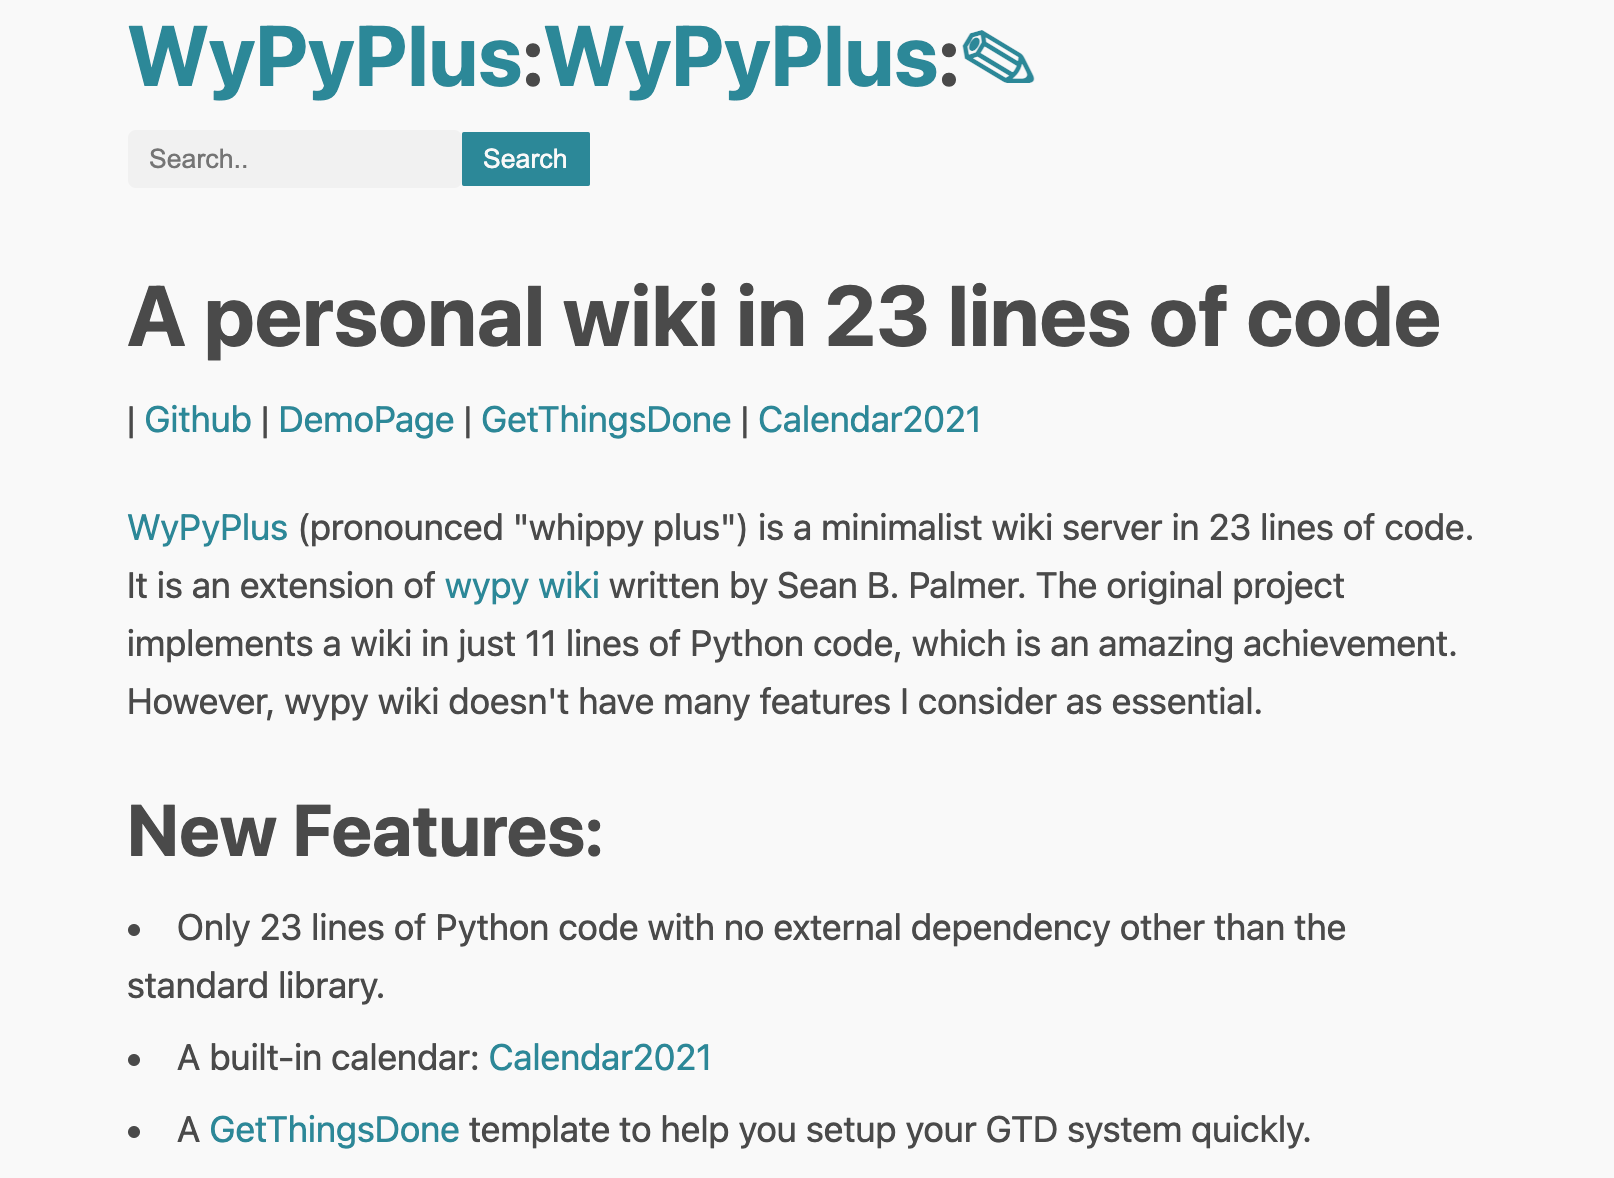
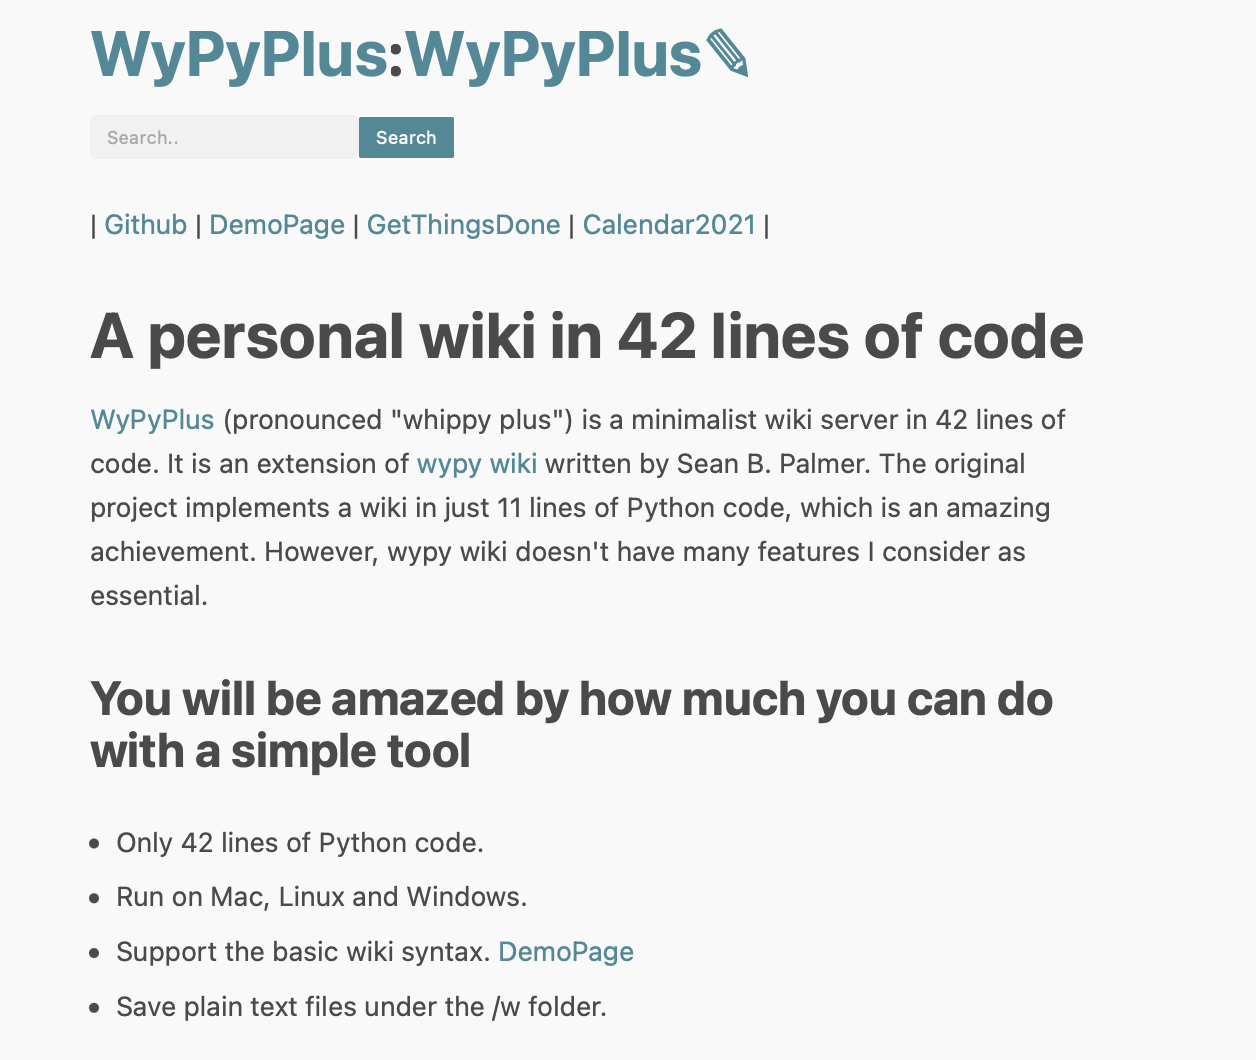
update screenshot

diff --git a/index.html b/index.html
@@ -1,0 +1,2 @@
+<meta http-equiv="Refresh" content="0; url='cgi-bin/wypyplus.py'" />
+

diff --git a/cgi-bin/wypyplus.py b/cgi-bin/wypyplus.py
@@ -1,23 +1,42 @@
 #!/usr/bin/env python2
 # -*- coding: utf-8 -*-
-name='WyPyPlus';edit='✎';pre='(?:^|\n)```((?:.|\n)+?)\n```';pre_h='<pre><code>((?:.|\n)+?)</code></pre>';link='\[([^]]*)]\(\s*((?:http[s]?://)?[^)]+)\s*\)';t='</textarea>'
-hs=lambda m:hex(hash(m.group(1)))[-5:];hl=lambda m,n:'<h%d>%s</h%d>'%(n,m.group(1),n);hl1=lambda m:hl(m, 1);hl2=lambda m:hl(m, 2);hl3=lambda m:hl(m,3) 
-import sys,re,os,cgi;from datetime import timedelta as td,datetime as dt;q,x,h,w=cgi.escape,os.path.exists,'<a href=','wypyplus.py?p='
+import sys,re,os,cgi;from datetime import timedelta as td,datetime as dt;
+home='WyPyPlus';edit='✎';t='</textarea>'
+pre='(?:^|\n)```((?:.|\n)+?)\n```';pre_h='<pre><code>((?:.|\n)+?)</code></pre>'
+remove_leading_space=lambda m:'<pre><code>'+'\n'.join([l[1:] for l in m.group(1).splitlines()])+'</code></pre>'
+insert_leading_space=lambda m: '\n```'+'\n '.join(m.group(1).splitlines())+ '\n```'
+link='\[([^]]*)]\(\s*((?:http[s]?://)?[^)]+)\s*\)';yt="https://www.youtube.com/watch?v="
+hs=lambda m:hex(hash(m.group(1)))[-5:]
+hl=lambda m,n:'<h%d>%s</h%d>'%(n,m.group(1),n);hl1=lambda m:hl(m, 1);hl2=lambda m:hl(m, 2);hl3=lambda m:hl(m,3)
+q,x,h,w=cgi.escape,os.path.exists,'<a href=','wypyplus.py?p='
 load=lambda n:(x('w/'+n) and open('w/'+n).read()) or '';load_tpl=lambda n: load(n) or load('Tpl'+n[:3]) or '';load_g=lambda:load('GlobalMenu')
-f,i=cgi.FormContent(),'put type';y=f.get('p',[''])[0];y=dt.now().strftime("%b%d") if y=='Today' else (name,y)[y.isalnum()]
+f,i=cgi.FormContent(),'put type';y=f.get('p',[''])[0];y=dt.now().strftime("%b%d") if y=='Today' else (home,y)[y.isalnum()]
 se='<form><input type="text"placeholder="Search.. "name="p"><input type="hidden" name="q" value="f"><button type="submit">Search</button></form>'
-fs,do,main=lambda s:re.sub(pre_h,lambda m:'<pre><code>'+'\n'.join([l[1:] for l in m.group(1).splitlines()])+'</code></pre>',reduce(lambda s,r:re.sub('(?m)'+r[0],r[1],s),
-(('\r',''),('^@INCLUDE=(\w+)$',lambda m: x('w/'+m.group(1)) and open('w/'+m.group(1)).read() or ''),('(^|[^=/\-_A-Za-z0-9?])([A-Z][a-z]+([A-Z0-9][a-z0-9]*){1,})',
-lambda m:(m.group(1)+'%s%s')%((m.group(2),h+w+m.group(2)+'&amp;q=e>?</a>' if edit else ''),('',h+w+m.group(2)+'>%s</a>'%m.group(2)))[x('w/'+m.group(2))]),
-('^\{\{$','\n<ul>'),('^\*(.*)$','<li>\g<1></li>'),('^}}$','</ul>'),('^---$','<hr>'),(pre,'<pre><code>\g<1></code></pre>'),('^# (.*)$',hl1),
-('^## (.*)$', hl2),('^### (.*)$',hl3),('\*\*(.*)\*\*','<b>\g<1></b>'),('\!'+link,'<img src="\g<2>" alt="\g<1>">'),('(^|[^!])'+link,"\g<1>"+h+'"\g<3>">\g<2></a>'),
-('(^|[^"])(http[s]?:[^<>"\s]+)',"\g<1>"+h+'"\g<2>">\g<2></a>'),('\n\n','\n<p>')),q(s)),0,re.MULTILINE),\
-lambda m,n:{'get':'<h1>%s%s%s>%s</a>:%s%s%s&amp;q=f>%s</a>%s%s%s&amp;q=e>%s</a></h1>%s<p>%s'%(h,w,name,name,h,w,n,n,h,w,n,edit,se if edit else '',
-fs(load_g()+re.sub(pre, lambda m: '\n```'+'\n '.join(m.group(1).splitlines())+ '\n```', load_tpl(n))) or n),\
-'edit':'<form name="e" action=%s%s method=POST><h1>%s <in%s=hidden name=p value=%s></h1>Opened at: %s AutoSave at: %s<textarea name=t id=ta rows=24>%s%s<in%s=submit>'\
-%(w,n,fs(n),i,n,dt.now().strftime("%m/%d/%Y %H:%M"),(dt.now()+td(minutes=30)).strftime("%H:%M"),q(load_tpl(n)),t,i),\
-'find':('<h1>Links: %s</h1>'%fs(n))+fs('{{\n* %s\n}}'%'\n* '.join(sorted([d for d in os.listdir('w/') if n == "All" or load(d).count(n) or n in d])))
-}.get(m),lambda f=f:`(os.getenv("REQUEST_METHOD")!="POST") or not edit or ('t' in f or (os.remove('w/'+y) and False))\
-and open('w/'+y,'w').write(f['t'][0])`+`sys.stdout.write("Content-type: text/html; charset=utf-8\r\n\r\n"\
-'<head><meta content="width=device-width, initial-scale=1" name="viewport"><link rel="stylesheet" href="../sakura.css">\
-</head><title>%s</title>'%y+do(({'e':'edit','f':'find'} if edit else {'f':'find'}).get(f.get('q',[None])[0],'get'),y))`;(__name__=="__main__") and main()
+fs=lambda s:re.sub(pre_h,remove_leading_space,reduce(lambda s,r:re.sub('(?m)'+r[0],r[1],s),(('\r',''),
+('^@INCLUDE=(\w+)$',lambda m: x('w/'+m.group(1)) and open('w/'+m.group(1)).read() or ''),
+('(^|[^=/\-_A-Za-z0-9?])([A-Z][a-z]+([A-Z0-9][a-z0-9]*){1,})',
+ lambda m:(m.group(1)+'%s%s')%((m.group(2),h+w+m.group(2)+'&amp;q=e>?</a>' if edit else ''),('',h+w+m.group(2)+'>%s</a>'%m.group(2)))[x('w/'+m.group(2))]),
+('^\{\{$','\n<ul>'),('^\*(.*)$','<li>\g<1></li>'),('^}}$','</ul>'),('^---$','<hr>'),
+(pre,'<pre><code>\g<1></code></pre>'),
+('^# (.*)$',hl1),('^## (.*)$', hl2),('^### (.*)$',hl3),('\*\*(.*)\*\*','<b>\g<1></b>'),
+('\!'+link,'<img src="\g<2>" alt="\g<1>">'),('(^|[^!])'+link,"\g<1>"+h+'"\g<3>">\g<2></a>'),
+('(^|[^"])(http[s]?:[^<>"\s]+)',
+ lambda m: ('<iframe width="560" height="315" src="https://www.youtube.com/embed/%s" \
+frameborder="0" allow="accelerometer; autoplay; clipboard-write; encrypted-media;\
+ gyroscope; picture-in-picture" allowfullscreen></iframe>' % m.group(2)[len(yt):]) if m.group(2).startswith(yt)
+ else (m.group(1)+h+m.group(2)+">"+m.group(2)+"</a>")),
+('\n\n','\n<p>')),q(s)),0,re.MULTILINE)
+do=lambda m,n:{
+    'get':'<h1>%s%s%s>%s</a>:%s%s%s&amp;q=f>%s</a>%s%s%s&amp;q=e>%s</a></h1>%s<p>%s'%(
+        h,w,home,home,h,w,n,n,h,w,n,edit,se if edit else '',
+        fs(load_g()+re.sub(pre, insert_leading_space, load_tpl(n))) or n),
+    'edit':'<form name="e" action=%s%s method=POST><h1>%s <in%s=hidden name=p value=%s></h1>Opened at: %s AutoSave at: %s<textarea name=t id=ta rows=24>%s%s<in%s=submit>'%(
+        w,n,fs(n),i,n, dt.now().strftime("%m/%d/%Y %H:%M"), (dt.now()+td(minutes=30)).strftime("%H:%M"), q(load_tpl(n)),t,i),
+    'find':('<h1>Links: %s</h1>'%fs(n))+fs('{{\n* %s\n}}'%'\n* '.join(
+        sorted([d for d in os.listdir('w/') if n == "All" or load(d).count(n) or n in d])))
+}.get(m)
+main=lambda f=f:`(os.getenv("REQUEST_METHOD")!="POST") or not edit or ('t' in f or (os.remove('w/'+y) and False))\
+    and open('w/'+y,'w').write(f['t'][0])`+`sys.stdout.write("Content-type: text/html; charset=utf-8\r\n\r\n"\
+        '<head><meta content="width=device-width, initial-scale=1" name="viewport"><link rel="stylesheet" href="../sakura.css">\
+        </head><title>%s</title>'%y+do(({'e':'edit','f':'find'} if edit else {'f':'find'}).get(f.get('q',[None])[0],'get'),y))`
+(__name__=="__main__") and main()

diff --git a/README.md b/README.md
@@ -1,6 +1,6 @@
-# 🍦WyPyPlus: A personal wiki in 23 lines of code
+# 🍦WyPyPlus: A personal wiki in 42 lines of code
 
-🍦WyPyPlus (pronounced "whippy plus") is a minimalist wiki server in 23 lines of code based on [wypy wiki](http://infomesh.net/2003/wypy/) written by Sean B. Palmer in 2004 during a [ShortestWikiContest](http://wiki.c2.com/?ShortestWikiContest).
+🍦WyPyPlus (pronounced "whippy plus") is a minimalist wiki server in 42 lines of code based on [wypy wiki](http://infomesh.net/2003/wypy/) written by Sean B. Palmer in 2004 during a [ShortestWikiContest](http://wiki.c2.com/?ShortestWikiContest).
 
 WyPyPlus is a journey to discover the essence of personal wiki and get rid of everything else. It tries to keep a minimal set of features and pack them in the tiniest space possible.
 
@@ -22,7 +22,7 @@ The Built-in Calendar
 
 ### You will be amazed by how much you can do with a simple tool.
 
-* Only 23 lines of Python code with no external dependency other than the standard library. (2.6KB Python + 3.9KB CSS)
+* Only 42 lines of Python code with no external dependency other than the standard library. (2.6KB Python + 3.9KB CSS)
 * Runs on Mac, Linux and Windows.
 * Support basic wiki syntax. [DemoPage](https://github.com/lchen198/wypyplus/blob/main/w/DemoPage)
 * Your files are in the /w folder.
